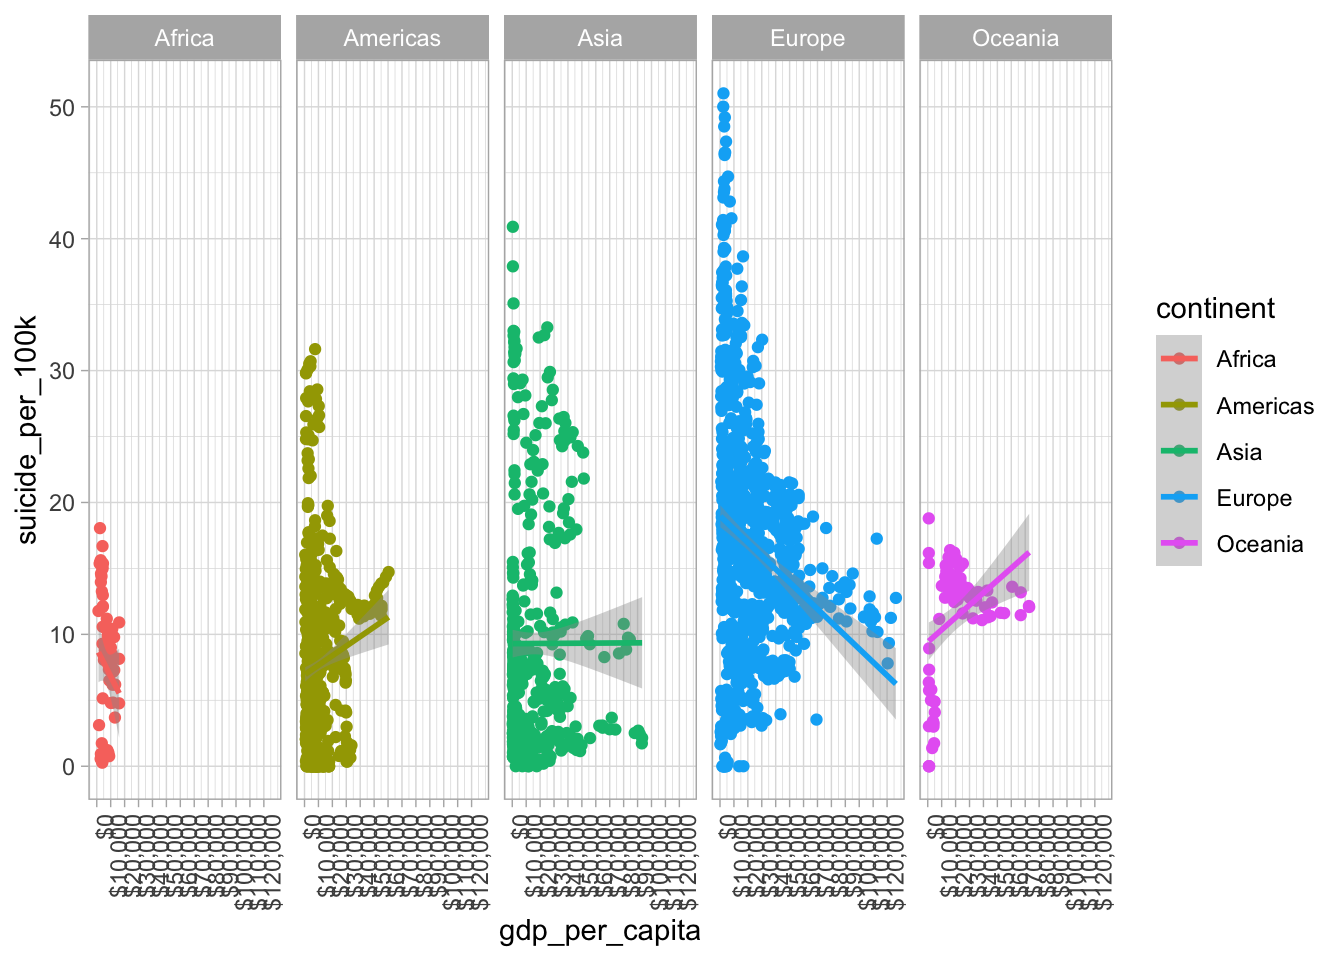
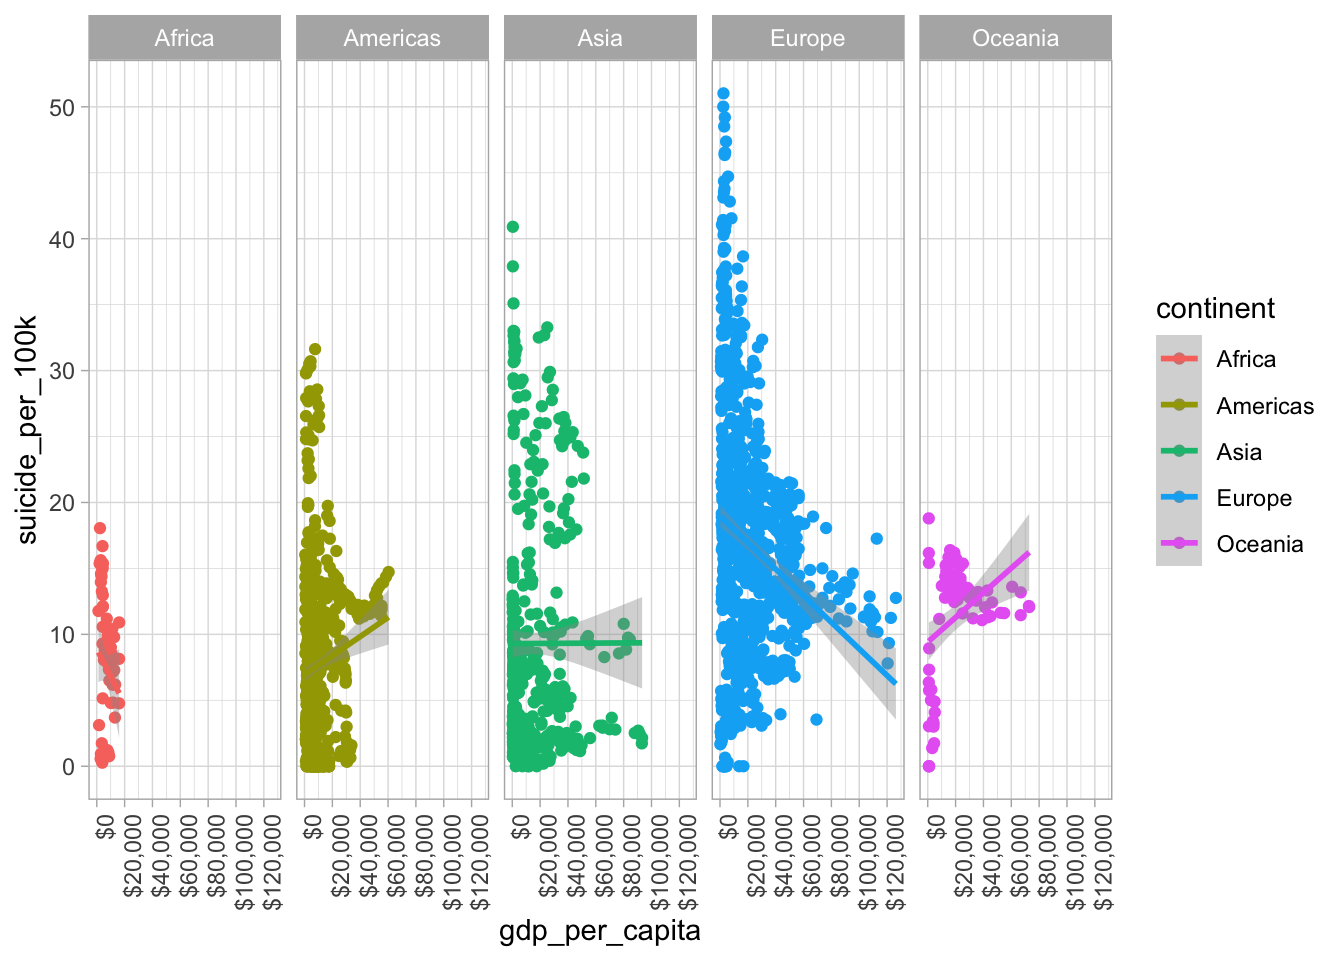
make some change to the models.

Changed region(s): [[0.0625, 0.8438, 0.5, 0.9375], [0.6875, 0.8438, 0.8125, 0.9375], [0.5312, 0.8438, 0.6562, 0.9375]]

diff --git a/model.html b/model.html
@@ -441,7 +441,7 @@ ggplot(country_year_sig_trends, aes(x=country, y=estimate, col = estimate)) +
 <pre class="r"><code>ggplot(country_year, aes(x = gdp_per_capita, y = suicide_per_100k, col = continent)) +
   geom_point() + 
   geom_smooth(method = &quot;lm&quot;) +
-  scale_x_continuous(labels=scales::dollar_format(prefix=&quot;$&quot;), breaks = seq(0, 125000, 10000)) +
+  scale_x_continuous(labels=scales::dollar_format(prefix=&quot;$&quot;), breaks = seq(0, 125000, 20000)) +
   theme(axis.text.x = element_text(angle = 90, hjust = 1)) +
   facet_grid(~continent)</code></pre>
 <p><img src="model_files/figure-html/unnamed-chunk-2-1.png" width="672" /></p>
